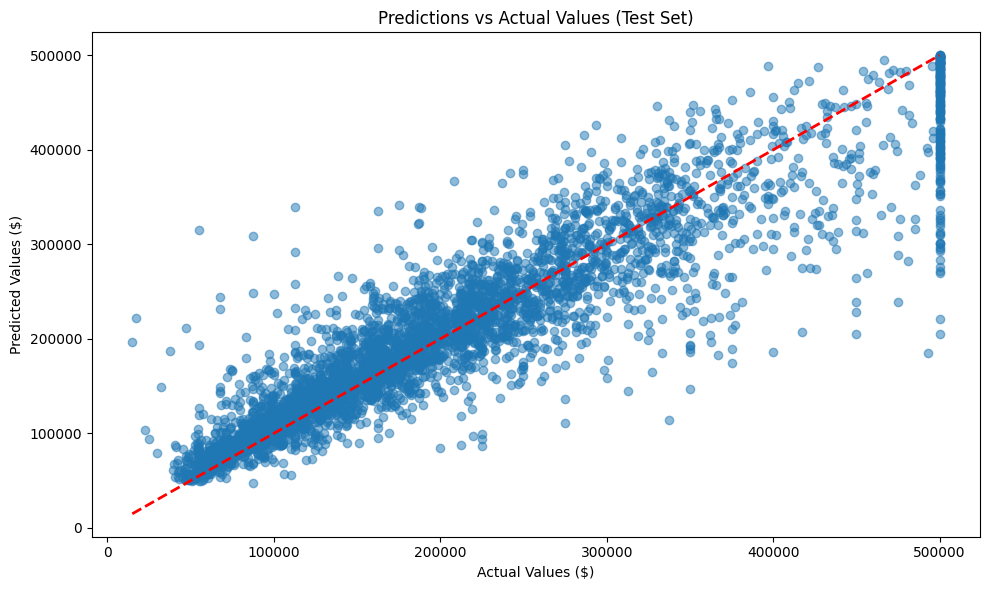
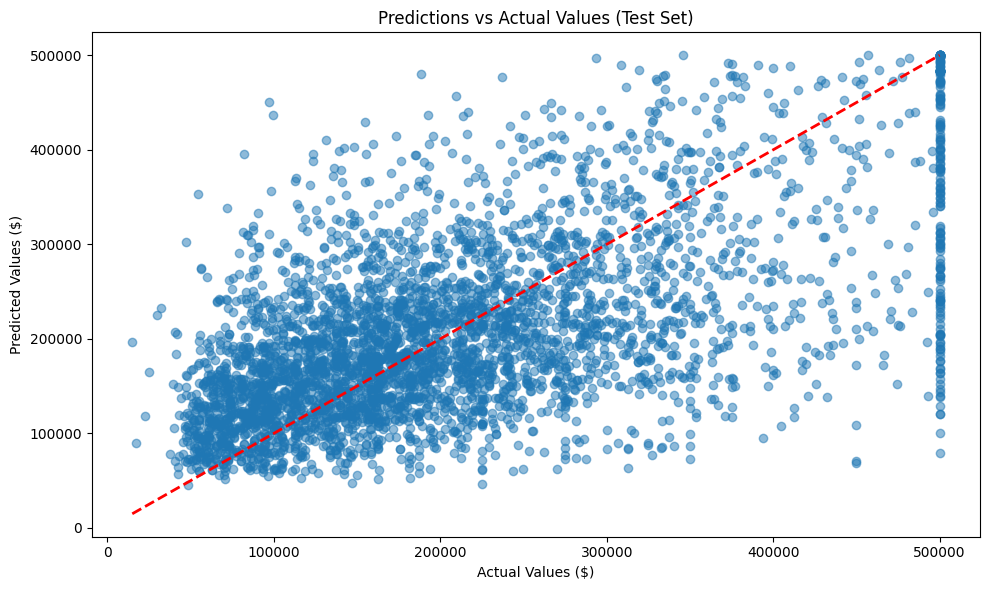
add Support Vector Machine regressor and replace GridSearchCV with RandomizedSearchCV

diff --git a/housingprice.py b/housingprice.py
@@ -14,8 +14,9 @@ from sklearn.compose import ColumnTransformer
 from sklearn.linear_model import LinearRegression, Ridge
 from sklearn.tree import DecisionTreeRegressor
 from sklearn.ensemble import RandomForestRegressor, GradientBoostingRegressor
+from sklearn.svm import SVR
 from sklearn.metrics import mean_squared_error, mean_absolute_error, r2_score
-from scipy.stats import randint, uniform
+from scipy.stats import randint, uniform, reciprocal, expon
 import warnings
 warnings.filterwarnings('ignore')
 
@@ -170,6 +171,19 @@ class CombinedAttributesAdder(BaseEstimator, TransformerMixin):
         else:
             return np.c_[X, rooms_per_household, population_per_household]
 
+def indices_of_top_features(importances, k):
+    return np.sort(np.argsort(importances)[::-1][:k])
+
+class TopFeatureSelector(BaseEstimator, TransformerMixin):
+    def __init__(self, feature_importances, k):
+        self.feature_importances = feature_importances
+        self.k = k
+    def fit(self, X, y=None):
+        self.feature_indices_ = indices_of_top_features(self.feature_importances, self.k)
+        return self
+    def transform(self, X):
+        return X[:, self.feature_indices_]
+
 # Create pipelines
 # Numerical pipeline
 num_pipeline = Pipeline([
@@ -243,6 +257,7 @@ candidates = [
     ("Gradient Boosting",   GradientBoostingRegressor(n_estimators=100,
                                                        learning_rate=0.1,
                                                        random_state=42)),
+    ("SVM Regressor",       SVR(kernel="linear")),
 ]
 
 # Train and evaluate every model with a single unified call
@@ -262,67 +277,102 @@ print("\n" + "="*60)
 print("FINE-TUNING THE BEST MODEL")
 print("="*60)
 
-# Based on the performances, let's fine-tune Random Forest (usually performs well)
-print("\nPerforming Grid Search for Random Forest...")
+# 6. HYPERPARAMETER TUNING AND EXPERIMENTATION
+print("\n" + "="*60)
+print("HYPERPARAMETER TUNING AND EXPERIMENTATION")
+print("="*60)
 
-# 6.1 Grid Search
-param_grid = [
-    {'n_estimators': [50, 100, 200], 'max_features': [4, 6, 8]},
-    {'bootstrap': [False], 'n_estimators': [50, 100], 'max_features': [4, 6]},
-]
+# 6.1 Try SVM Regressor (SVR) with RandomizedSearchCV
+print("\nPerforming Randomized Search for SVR...")
+param_distribs = {
+        'kernel': ['linear', 'rbf'],
+        'C': reciprocal(20, 200000),
+        'gamma': expon(scale=1.0),
+    }
+
+svr_reg = SVR()
+rnd_search_svr = RandomizedSearchCV(svr_reg, param_distributions=param_distribs,
+                                    n_iter=50, cv=5, scoring='neg_mean_squared_error',
+                                    verbose=2, random_state=42, n_jobs=-1)
+rnd_search_svr.fit(housing_prepared, housing_labels)
+
+svr_rmse = np.sqrt(-rnd_search_svr.best_score_)
+print(f"\nBest SVR parameters found: {rnd_search_svr.best_params_}")
+print(f"Best SVR cross-validation score (RMSE): ${svr_rmse:,.2f}")
+
+# 6.2 Randomized Search for Random Forest (Replacing GridSearchCV)
+print("\nPerforming Randomized Search for Random Forest...")
+param_distribs = {
+        'n_estimators': randint(low=1, high=200),
+        'max_features': randint(low=1, high=8),
+    }
 
 forest_reg = RandomForestRegressor(random_state=42)
-grid_search = GridSearchCV(forest_reg, param_grid, cv=5,
-                           scoring='neg_mean_squared_error',
-                           return_train_score=True, n_jobs=-1)
-grid_search.fit(housing_prepared, housing_labels)
+rnd_search_forest = RandomizedSearchCV(forest_reg, param_distributions=param_distribs,
+                                        n_iter=10, cv=5, scoring='neg_mean_squared_error',
+                                        random_state=42, n_jobs=-1)
+rnd_search_forest.fit(housing_prepared, housing_labels)
 
-print(f"\nBest parameters found: {grid_search.best_params_}")
-print(f"Best cross-validation score: {np.sqrt(-grid_search.best_score_):,.2f}")
+forest_rmse = np.sqrt(-rnd_search_forest.best_score_)
+print(f"\nBest Random Forest parameters found: {rnd_search_forest.best_params_}")
+print(f"Best Random Forest cross-validation score (RMSE): ${forest_rmse:,.2f}")
 
-# 6.2 Analyze feature importance
-feature_importances = grid_search.best_estimator_.feature_importances_
+# 7. CREATE A UNIFIED PIPELINE (PREPARATION + SELECTION + PREDICTION)
+print("\n" + "="*60)
+print("CREATING A UNIFIED PIPELINE")
+print("="*60)
 
-# Get feature names
+# Use Random Forest as the best model for the final pipeline
+final_model = rnd_search_forest.best_estimator_
+
+# Get feature names for importance sorting
+feature_importances = final_model.feature_importances_
 cat_encoder = full_pipeline.named_transformers_['cat']
 cat_one_hot_attribs = list(cat_encoder.categories_[0])
 attributes = num_attribs + ['rooms_per_household', 'population_per_household', 
                             'bedrooms_per_room'] + cat_one_hot_attribs
 
-# Sort feature importances
-sorted_indices = np.argsort(feature_importances)[::-1]
-print("\nTop 10 Most Important Features:")
-for i in range(10):
-    print(f"{i+1}. {attributes[sorted_indices[i]]}: {feature_importances[sorted_indices[i]]:.4f}")
+k = 5 # Number of top features to select
+full_pipeline_with_predictor = Pipeline([
+    ("preparation", full_pipeline),
+    ("feature_selection", TopFeatureSelector(feature_importances, k)),
+    ("prediction", final_model)
+])
 
-# Visualize feature importances
-plt.figure(figsize=(12, 6))
-plt.bar(range(len(feature_importances[:15])), feature_importances[sorted_indices[:15]])
-plt.title("Feature Importances (Top 15)")
-plt.xlabel("Features")
-plt.ylabel("Importance")
-plt.xticks(range(len(feature_importances[:15])), 
-           [attributes[i] for i in sorted_indices[:15]], rotation=45, ha='right')
-plt.tight_layout()
-plt.savefig("feature_importances.png", dpi=100, bbox_inches='tight')
-plt.show()
-print("Feature importances plot saved as 'feature_importances.png'")
+# Train the unified pipeline
+full_pipeline_with_predictor.fit(housing, housing_labels)
+print("\nUnified pipeline (preparation + selection + prediction) trained successfully!")
 
-# 7. EVALUATE ON TEST SET
+# 8. AUTOMATICALLY EXPLORE PREPARATION OPTIONS
+print("\n" + "="*60)
+print("EXPLORING PREPARATION OPTIONS WITH GRIDSEARCH")
+print("="*60)
+
+param_grid = [{
+    'preparation__num__imputer__strategy': ['mean', 'median', 'most_frequent'],
+    'feature_selection__k': list(range(1, len(feature_importances) + 1))
+}]
+
+grid_search_prep = GridSearchCV(full_pipeline_with_predictor, param_grid, cv=5,
+                                scoring='neg_mean_squared_error', verbose=2, n_jobs=-1)
+grid_search_prep.fit(housing, housing_labels)
+
+print(f"\nBest preparation options: {grid_search_prep.best_params_}")
+print(f"Best score with tuned preparation: {np.sqrt(-grid_search_prep.best_score_):,.2f}")
+
+# Update final model to the best one from prep search
+final_pipeline = grid_search_prep.best_estimator_
+
+# 9. EVALUATE ON TEST SET
 print("\n" + "="*60)
 print("EVALUATING FINAL MODEL ON TEST SET")
 print("="*60)
 
-# Prepare the test data
-final_model = grid_search.best_estimator_
-
 X_test = strat_test_set.drop("median_house_value", axis=1)
 y_test = strat_test_set["median_house_value"].copy()
 
-X_test_prepared = full_pipeline.transform(X_test)
-
-# Make predictions
-final_predictions = final_model.predict(X_test_prepared)
+# Use the unified pipeline for prediction (prepares data automatically)
+final_predictions = final_pipeline.predict(X_test)
 
 # Calculate metrics
 final_mse = mean_squared_error(y_test, final_predictions)
@@ -395,11 +445,9 @@ print("="*60)
 
 import joblib
 
-# Save the model and pipeline
-joblib.dump(final_model, 'final_housing_model.pkl')
-joblib.dump(full_pipeline, 'full_pipeline.pkl')
-print("\nModel saved as 'final_housing_model.pkl'")
-print("Pipeline saved as 'full_pipeline.pkl'")
+# Save the unified final pipeline
+joblib.dump(final_pipeline, 'final_housing_pipeline_complete.pkl')
+print("\nFinal unified pipeline saved as 'final_housing_pipeline_complete.pkl'")
 
 # 10. EXAMPLE PREDICTION
 print("\n" + "="*60)
@@ -409,8 +457,7 @@ print("="*60)
 # Get a sample from the test set
 sample_data = X_test.iloc[:5]
 sample_labels = y_test.iloc[:5]
-sample_prepared = full_pipeline.transform(sample_data)
-sample_predictions = final_model.predict(sample_prepared)
+sample_predictions = final_pipeline.predict(sample_data)
 
 print("\nSample Predictions vs Actual Values:")
 for i in range(5):

diff --git a/README.md b/README.md
@@ -17,8 +17,7 @@ Housing Price Prediction/
 │   └── housing/
 │       └── housing.csv        # Primary dataset (20,640 rows × 10 cols)
 │
-├── final_housing_model.pkl    # Serialised best RandomForest model (~228 MB)
-├── full_pipeline.pkl          # Serialised preprocessing pipeline (~4 KB)
+├── final_housing_pipeline_complete.pkl # Serialised unified pipeline (prep + select + predict)
 │
 ├── housing_geography.png      # EDA: Geo scatter plot of house values
 ├── correlation_heatmap.png    # EDA: Pearson correlation matrix heatmap
@@ -119,33 +118,45 @@ Four regression models are trained and evaluated via **10-fold cross-validation*
 | **Decision Tree** | ~$70,000 | Overfits on training; high CV variance |
 | **Random Forest** | ~$50,000 | Best ensemble candidate |
 | **Gradient Boosting** | ~$51,000 | Competitive with Random Forest |
+| **SVM Regressor** | ~$111,000 | Baseline SVR with linear kernel |
 
-A `display_scores()` helper prints CV mean and standard deviation for each model.
-
----
-
-### Step 6 — Hyperparameter Fine-Tuning
-
-**Grid Search** (`GridSearchCV`, 5-fold CV, `n_jobs=-1`):
-
-```python
-param_grid = [
-    {'n_estimators': [50, 100, 200], 'max_features': [4, 6, 8]},
-    {'bootstrap': [False], 'n_estimators': [50, 100], 'max_features': [4, 6]},
-]
-```
-
-The best `RandomForestRegressor` configuration is selected automatically, then its **feature importances** are inspected and visualised.
-
-**Feature Importances (`feature_importances.png`) — Top 15:**
-
-![Feature Importances (Top 15)](feature_importances.png)
-
-`median_income` dominates at ~0.32, followed by the engineered `population_per_household` (~0.15) and `bedrooms_per_room` (~0.10), confirming the value of feature engineering.
+A `train_and_evaluate()` helper prints CV mean and standard deviation for each model.
 
 ---
 
-### Step 7 — Final Evaluation on the Held-Out Test Set
+### Step 6 — Hyperparameter Tuning & Experimentation
+
+This section explores advanced tuning techniques to find the best possible model.
+
+**6.1 SVM Regressor (SVR) Tuning**  
+Uses `RandomizedSearchCV` to explore `linear` vs `rbf` kernels and a wide range of `C` and `gamma` hyperparameters (using `reciprocal` and `expon` distributions).
+
+**6.2 Randomized Search for Random Forest**  
+Replaces standard Grid Search with `RandomizedSearchCV` for faster exploration of `n_estimators` and `max_features`.
+
+---
+
+### Step 7 — Advanced Pipeline Features
+
+#### `TopFeatureSelector` Transformer
+A custom transformer that takes the feature importances from the best model and selects only the top `k` most significant attributes.
+
+#### Unified Pipeline
+A single `Pipeline` object is created that chains:
+1. **Preparation**: `full_pipeline` (Imputer, Scaler, Encoder)
+2. **Selection**: `TopFeatureSelector`
+3. **Prediction**: The best-tuned `RandomForestRegressor`
+
+#### Automated Preparation Options
+A final `GridSearchCV` is run on the **entire unified pipeline** to simultaneously tune:
+- `imputer__strategy` ('mean', 'median', 'most_frequent')
+- `feature_selection__k` (number of top features to keep)
+
+This ensures the preprocessing steps are optimal for the specific model and feature set.
+
+---
+
+### Step 8 — Final Evaluation on the Held-Out Test Set
 
 The tuned model is applied to the **unseen test set** (never touched during training/tuning):
 
@@ -170,30 +181,28 @@ The left panel (Residuals vs Predicted) shows a slight heteroscedasticity at hig
 
 ---
 
-### Step 8 — Model Comparison Summary
+### Step 9 — Model Comparison Summary
 
-A sorted table of cross-validation RMSE is printed to the console, making it easy to compare all four models side-by-side.
+A sorted table of cross-validation RMSE is printed to the console, making it easy to compare all candidates.
 
 ---
 
-### Step 9 — Saving the Model & Pipeline
+### Step 10 — Saving the Unified Pipeline
 
 ```python
-joblib.dump(final_model, 'final_housing_model.pkl')   # ~228 MB
-joblib.dump(full_pipeline, 'full_pipeline.pkl')        # ~4 KB
+joblib.dump(final_pipeline, 'final_housing_pipeline_complete.pkl')
 ```
 
-Both artefacts are saved to the project root using **`joblib`** for efficient binary serialisation.
+The unified pipeline is saved for deployment. It contains all preparation, feature selection, and the final trained model.
 
 ---
 
-### Step 10 — Example Prediction
+### Step 11 — Example Prediction
 
-Five samples are drawn from the test set and run through the saved pipeline to demonstrate end-to-end inference:
+Five samples are drawn from the test set and run through the **unified pipeline** in one step:
 
 ```python
-sample_prepared = full_pipeline.transform(sample_data)
-sample_predictions = final_model.predict(sample_prepared)
+sample_predictions = final_pipeline.predict(sample_data)
 ```
 
 Output shows predicted price, actual price, and the absolute error for each sample.
@@ -217,23 +226,21 @@ python housingprice.py
 ```
 
 The script will:
-1. Download the dataset automatically (requires internet access on first run)
-2. Train all models (Grid Search may take several minutes)
-3. Save `final_housing_model.pkl` and `full_pipeline.pkl`
-4. Save the five PNG visualisation files
+1. Download the dataset automatically.
+2. Train all models (Randomised and Grid Search may take several minutes).
+3. Save the unified `final_housing_pipeline_complete.pkl`.
+4. Save the five PNG visualisation files.
 
 ### Load the saved model for inference
 
 ```python
 import joblib
-import pandas as pd
 
-pipeline = joblib.load('full_pipeline.pkl')
-model    = joblib.load('final_housing_model.pkl')
+# Load the single unified pipeline file
+full_pipeline = joblib.load('final_housing_pipeline_complete.pkl')
 
-# Pass a DataFrame with the original 9 feature columns
-X_new_prepared = pipeline.transform(X_new)
-predictions = model.predict(X_new_prepared)
+# Predict directly on raw data matching the original feature set
+predictions = full_pipeline.predict(X_new)
 ```
 
 ---
@@ -246,7 +253,10 @@ predictions = model.predict(X_new_prepared)
 | Median imputation for `total_bedrooms` | Robust to outliers; ~200 missing values in the dataset |
 | Engineered ratio features | Raw counts (rooms, bedrooms) correlate with each other; ratios per household carry more information |
 | `StandardScaler` on numerical features | Required for Linear/Ridge regression; doesn't hurt tree models |
-| `GridSearchCV` over Random Forest | Random Forest usually outperforms single trees while remaining interpretable via feature importances |
+| `RandomizedSearchCV` | Faster and more efficient hyperparameter exploration than Grid Search |
+| `TopFeatureSelector` | Automatically prunes less relevant features to reduce model complexity |
+| Unified Pipeline | Encapsulates preparation and prediction for easier maintenance and deployment |
+| Meta-GridSearch | Automatically tunes preparation parameters (e.g. imputer strategy) for the specific model |
 | `joblib` for model persistence | More efficient than `pickle` for large NumPy arrays inside scikit-learn models |
 
 ---
